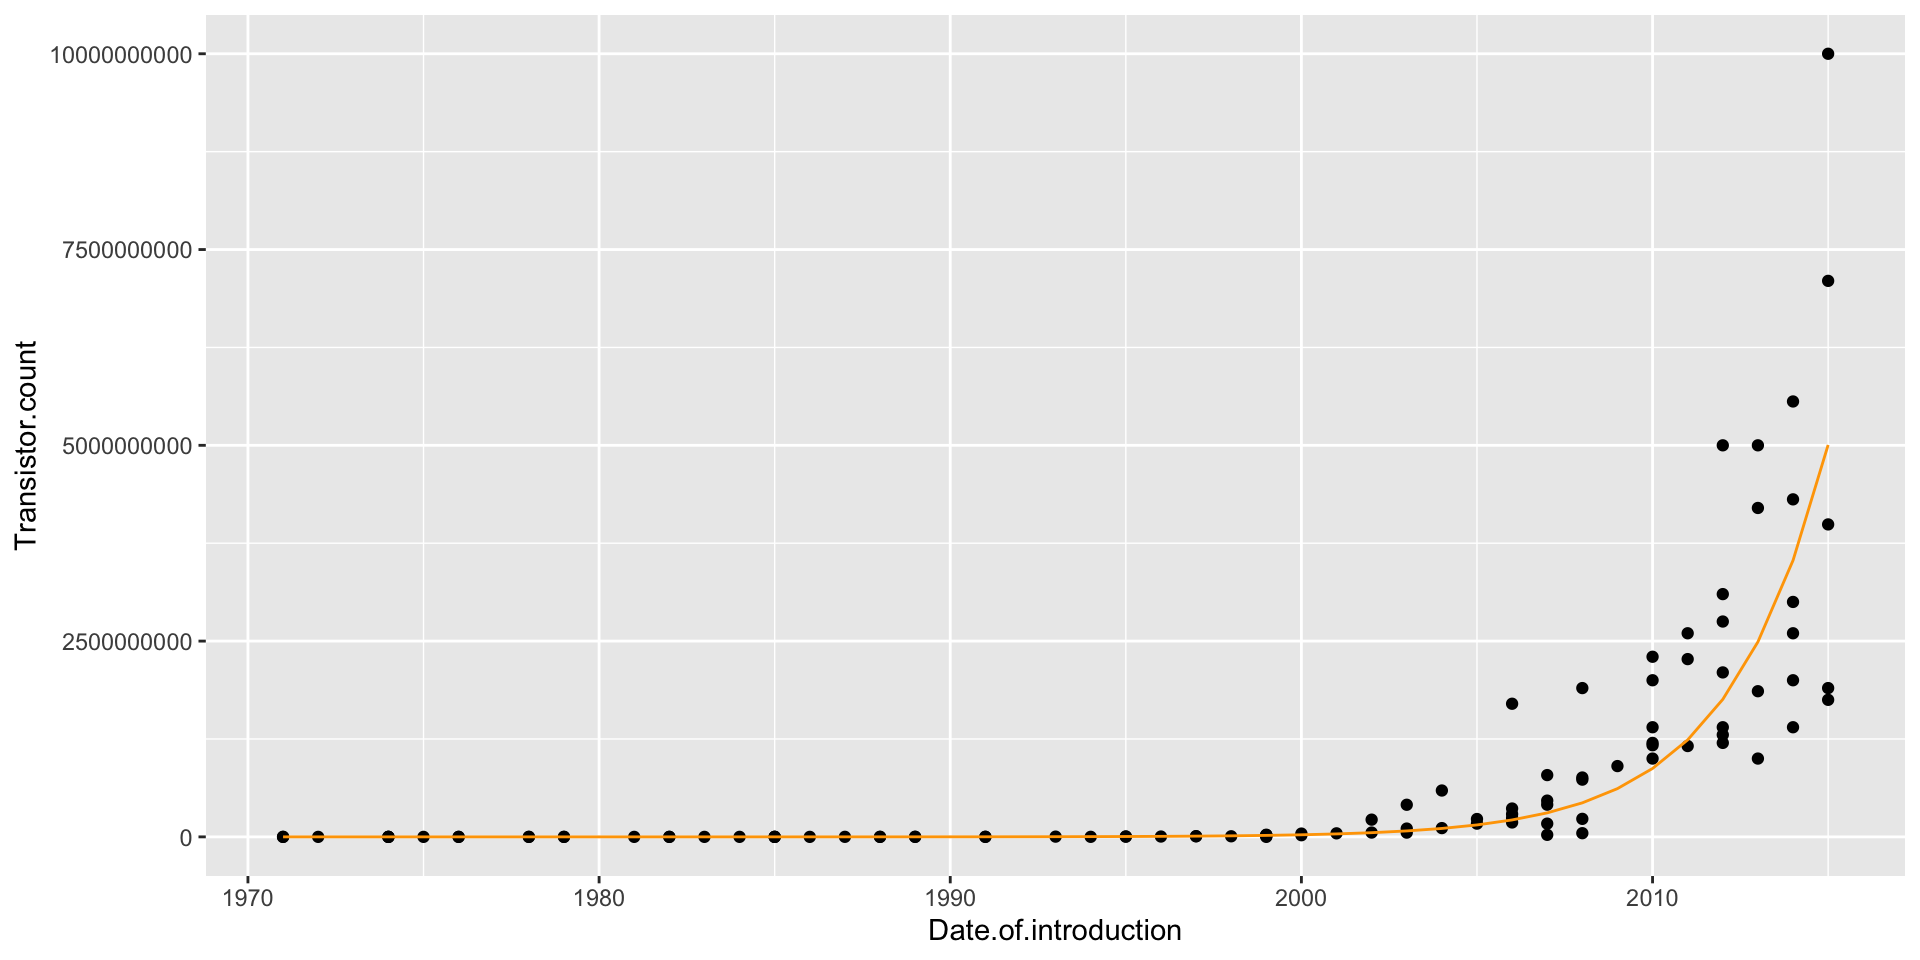
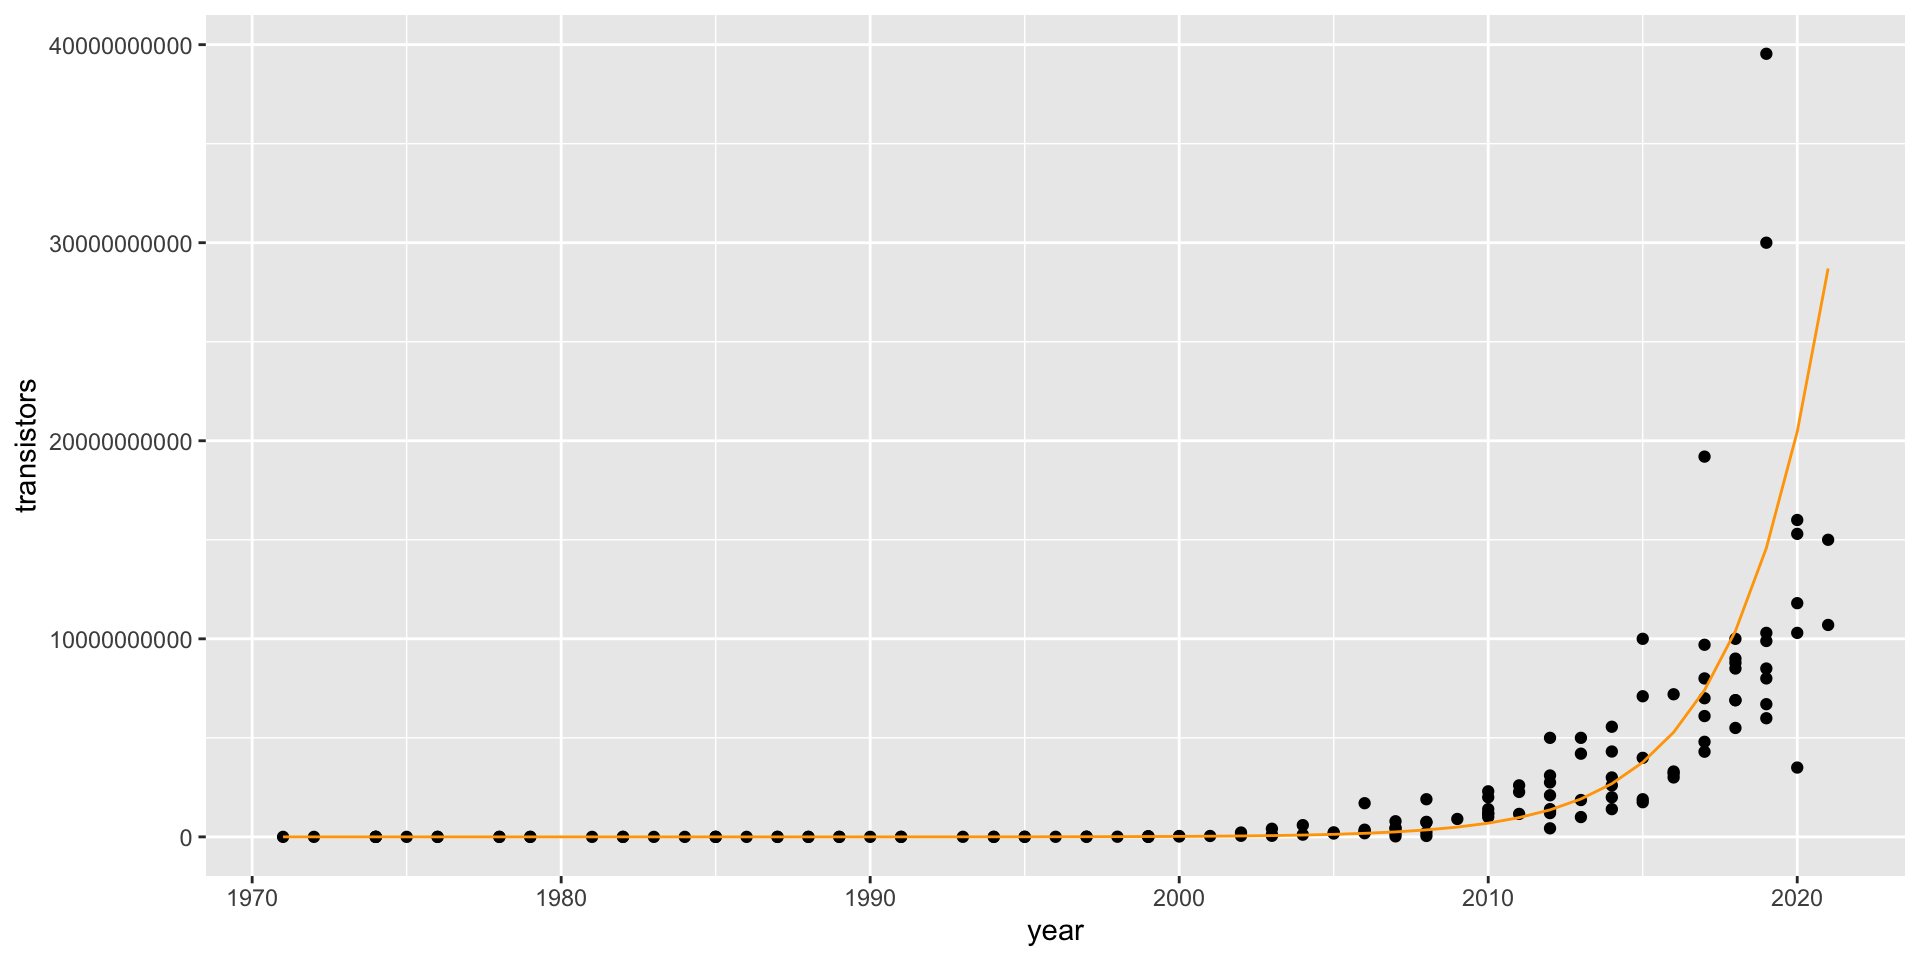
new commit

diff --git a/docs/fa_sta235_2026/class_06_fa_2026.html b/docs/fa_sta235_2026/class_06_fa_2026.html
@@ -452,7 +452,7 @@ I(temp^2)    0.0008440041  0.001651114</code></pre>
 <li>For example, <span class="math inline">\(\log_{10} 1000 = 3\)</span>, <span class="math inline">\(\log_{10}100 = 2\)</span>, and <span class="math inline">\(\log_{10}10 = 1\)</span></li>
 </ul>
 
-<img data-src="week_05_docs/exp_log.png" class="quarto-figure quarto-figure-center r-stretch" style="width:50.0%"></section>
+<img data-src="class_06_docs/exp_log.png" class="quarto-figure quarto-figure-center r-stretch" style="width:50.0%"></section>
 <section id="the-log-transformation-2" class="slide level2 smaller">
 <h2>The log transformation</h2>
 <ul>
@@ -468,7 +468,7 @@ I(temp^2)    0.0008440041  0.001651114</code></pre>
 <li><p>This implies <span style="color:darkorange;">exponential growth</span>, so a linear model won’t fit well (and neither will any polynomial)</p></li>
 </ul>
 <div class="cell" data-layout-align="center">
-<div class="code-copy-outer-scaffold"><div class="sourceCode cell-code" id="cb12"><pre class="sourceCode numberSource r number-lines code-with-copy"><code class="sourceCode r"><span id="cb12-1"><a></a><span class="fu">ggplot</span>(moores, <span class="fu">aes</span>(<span class="at">x =</span> Date.of.introduction, <span class="at">y =</span> Transistor.count)) <span class="sc">+</span></span>
+<div class="code-copy-outer-scaffold"><div class="sourceCode cell-code" id="cb12"><pre class="sourceCode numberSource r number-lines code-with-copy"><code class="sourceCode r"><span id="cb12-1"><a></a><span class="fu">ggplot</span>(moores, <span class="fu">aes</span>(<span class="at">x =</span> year, <span class="at">y =</span> transistors)) <span class="sc">+</span></span>
 <span id="cb12-2"><a></a>  <span class="fu">geom_point</span>() <span class="sc">+</span></span>
 <span id="cb12-3"><a></a>  <span class="fu">geom_smooth</span>(<span class="at">method =</span> <span class="st">"lm"</span>, <span class="at">se =</span> <span class="cn">FALSE</span>)</span></code></pre></div><button title="Copy to Clipboard" class="code-copy-button"><i class="bi"></i></button></div>
 
@@ -477,7 +477,7 @@ I(temp^2)    0.0008440041  0.001651114</code></pre>
 <section id="moores-law-1" class="slide level2 smaller">
 <h2>Moore’s Law</h2>
 <div class="cell" data-layout-align="center">
-<div class="code-copy-outer-scaffold"><div class="sourceCode cell-code" id="cb13"><pre class="sourceCode numberSource r number-lines code-with-copy"><code class="sourceCode r"><span id="cb13-1"><a></a>lm_moore <span class="ot">=</span> <span class="fu">lm</span>(Transistor.count <span class="sc">~</span> Date.of.introduction, <span class="at">data =</span> moores)</span>
+<div class="code-copy-outer-scaffold"><div class="sourceCode cell-code" id="cb13"><pre class="sourceCode numberSource r number-lines code-with-copy"><code class="sourceCode r"><span id="cb13-1"><a></a>lm_moore <span class="ot">=</span> <span class="fu">lm</span>(transistors <span class="sc">~</span> year, <span class="at">data =</span> moores)</span>
 <span id="cb13-2"><a></a><span class="fu">autoplot</span>(lm_moore)</span></code></pre></div><button title="Copy to Clipboard" class="code-copy-button"><i class="bi"></i></button></div>
 
 </div>
@@ -501,7 +501,7 @@ I(temp^2)    0.0008440041  0.001651114</code></pre>
 <li><span class="math inline">\(\log(\texttt{Transistors})\)</span> does have a <span style="color:darkorange;">linear relationship</span> with year</li>
 </ul>
 <div class="cell" data-layout-align="center">
-<div class="code-copy-outer-scaffold"><div class="sourceCode cell-code" id="cb14"><pre class="sourceCode numberSource r number-lines code-with-copy"><code class="sourceCode r"><span id="cb14-1"><a></a><span class="fu">ggplot</span>(moores, <span class="fu">aes</span>(<span class="at">x =</span> Date.of.introduction, <span class="at">y =</span> <span class="fu">log</span>(Transistor.count))) <span class="sc">+</span></span>
+<div class="code-copy-outer-scaffold"><div class="sourceCode cell-code" id="cb14"><pre class="sourceCode numberSource r number-lines code-with-copy"><code class="sourceCode r"><span id="cb14-1"><a></a><span class="fu">ggplot</span>(moores, <span class="fu">aes</span>(<span class="at">x =</span> year, <span class="at">y =</span> <span class="fu">log</span>(transistors))) <span class="sc">+</span></span>
 <span id="cb14-2"><a></a>  <span class="fu">geom_point</span>() <span class="sc">+</span></span>
 <span id="cb14-3"><a></a>  <span class="fu">geom_smooth</span>(<span class="at">method =</span> <span class="st">"lm"</span>, <span class="at">se =</span> <span class="cn">FALSE</span>)</span></code></pre></div><button title="Copy to Clipboard" class="code-copy-button"><i class="bi"></i></button></div>
 
@@ -512,27 +512,27 @@ I(temp^2)    0.0008440041  0.001651114</code></pre>
 <p>Let’s run the regression model</p>
 <div class="cell" data-layout-align="center">
 <div class="code-copy-outer-scaffold"><div class="sourceCode cell-code" id="cb15"><pre class="sourceCode numberSource r number-lines code-with-copy"><code class="sourceCode r"><span id="cb15-1"><a></a><span class="fu">options</span>(<span class="at">scipen =</span> <span class="dv">999</span>)</span>
-<span id="cb15-2"><a></a>lm_moore <span class="ot">=</span> <span class="fu">lm</span>(<span class="fu">log</span>(Transistor.count) <span class="sc">~</span> Date.of.introduction, <span class="at">data =</span> moores)</span>
+<span id="cb15-2"><a></a>lm_moore <span class="ot">=</span> <span class="fu">lm</span>(<span class="fu">log</span>(transistors) <span class="sc">~</span> year, <span class="at">data =</span> moores)</span>
 <span id="cb15-3"><a></a><span class="fu">summary</span>(lm_moore)</span></code></pre></div><button title="Copy to Clipboard" class="code-copy-button"><i class="bi"></i></button></div>
 <div class="cell-output cell-output-stdout">
 <pre><code>
 Call:
-lm(formula = log(Transistor.count) ~ Date.of.introduction, data = moores)
+lm(formula = log(transistors) ~ year, data = moores)
 
 Residuals:
     Min      1Q  Median      3Q     Max 
--5.1299 -0.3338  0.1767  0.5230  2.0626 
+-5.0148 -0.4558  0.0676  0.6039  2.2520 
 
 Coefficients:
-                        Estimate  Std. Error t value            Pr(&gt;|t|)    
-(Intercept)          -681.212056   15.958165  -42.69 &lt;0.0000000000000002 ***
-Date.of.introduction    0.349154    0.007981   43.75 &lt;0.0000000000000002 ***
+               Estimate  Std. Error t value            Pr(&gt;|t|)    
+(Intercept) -660.119283   11.731691  -56.27 &lt;0.0000000000000002 ***
+year           0.338545    0.005854   57.83 &lt;0.0000000000000002 ***
 ---
 Signif. codes:  0 '***' 0.001 '**' 0.01 '*' 0.05 '.' 0.1 ' ' 1
 
-Residual standard error: 1.054 on 99 degrees of freedom
-Multiple R-squared:  0.9508,    Adjusted R-squared:  0.9503 
-F-statistic:  1914 on 1 and 99 DF,  p-value: &lt; 0.00000000000000022</code></pre>
+Residual standard error: 0.9578 on 136 degrees of freedom
+Multiple R-squared:  0.9609,    Adjusted R-squared:  0.9606 
+F-statistic:  3344 on 1 and 136 DF,  p-value: &lt; 0.00000000000000022</code></pre>
 </div>
 </div>
 </section>
@@ -545,11 +545,11 @@ F-statistic:  1914 on 1 and 99 DF,  p-value: &lt; 0.00000000000000022</code></pr
 <img data-src="class_06_fa_2026_files/figure-revealjs/unnamed-chunk-16-1.png" class="quarto-figure quarto-figure-center r-stretch" width="960"></section>
 <section id="interpretation-of-the-model" class="slide level2 smaller">
 <h2>Interpretation of the model</h2>
-<p>Our model is <span class="math display">\[\widehat{\log(\texttt{Transistors})} = −681.21 + 0.35 \cdot \texttt{Year}\]</span></p>
+<p>Our model is <span class="math display">\[\widehat{\log(\texttt{Transistors})} = -660.119283 + 0.338545\times\texttt{Year}\]</span></p>
 <p>Two interpretations of the slope coefficient:</p>
 <ul>
-<li><p>Every year, the <span style="color:darkorange;">predicted log of transistors</span> goes up by 0.35</p></li>
-<li><p>More useful: Every year, the predicted number of transistors goes up by 35%</p></li>
+<li><p>Every year, the <span style="color:darkorange;">predicted log of transistors</span> goes up by 0.34</p></li>
+<li><p>More useful: Every year, the predicted number of transistors goes up by <span class="math inline">\((\exp(0.338545)-1)\times 100 = 40.29049 \%\)</span></p></li>
 <li><p>A <span style="color:darkorange;">constant percentage increase</span> every year is exponential growth!</p></li>
 </ul>
 </section>
@@ -560,16 +560,16 @@ F-statistic:  1914 on 1 and 99 DF,  p-value: &lt; 0.00000000000000022</code></pr
 <li><p>When making predictions, we have to remember that our equation gives us predictions for <span class="math inline">\(\log(\texttt{Transistors})\)</span>, not Transistors!</p></li>
 </ul>
 <p>Example: To make a prediction for the number of transistors in 2022: <span class="math display">\[
-\log(\texttt{Transistors}) = −681.21 + 0.35(2022) = 26.49
+\log(\texttt{Transistors}) = -660.119283 + 0.338545\times (2022) = 24.41871
 \]</span> But our prediction is not 26.49:</p>
-<p><span class="math inline">\(e^{\log(\texttt{Transistors})} = e^{26.49} = 319,492,616,196\)</span></p>
+<p><span class="math inline">\(e^{\log(\texttt{Transistors})} = e^{24.41871} = 40,263,452,155\)</span></p>
 </section>
 <section id="interpretation-of-the-model-2" class="slide level2 smaller">
 <h2>Interpretation of the model</h2>
 <div class="cell" data-layout-align="center">
-<div class="code-copy-outer-scaffold"><div class="sourceCode cell-code" id="cb18"><pre class="sourceCode numberSource r number-lines code-with-copy"><code class="sourceCode r"><span id="cb18-1"><a></a><span class="fu">ggplot</span>(moores, <span class="fu">aes</span>(<span class="at">x =</span> Date.of.introduction, <span class="at">y =</span> Transistor.count)) <span class="sc">+</span></span>
+<div class="code-copy-outer-scaffold"><div class="sourceCode cell-code" id="cb18"><pre class="sourceCode numberSource r number-lines code-with-copy"><code class="sourceCode r"><span id="cb18-1"><a></a><span class="fu">ggplot</span>(moores, <span class="fu">aes</span>(<span class="at">x =</span> year, <span class="at">y =</span> transistors)) <span class="sc">+</span></span>
 <span id="cb18-2"><a></a>  <span class="fu">geom_point</span>() <span class="sc">+</span></span>
-<span id="cb18-3"><a></a>  <span class="fu">geom_line</span>(<span class="fu">aes</span>(<span class="at">x =</span> Date.of.introduction, <span class="at">y =</span> <span class="fu">exp</span>(<span class="fu">predict</span>(lm_moore))), <span class="at">col =</span> <span class="st">"orange"</span>) </span></code></pre></div><button title="Copy to Clipboard" class="code-copy-button"><i class="bi"></i></button></div>
+<span id="cb18-3"><a></a>  <span class="fu">geom_line</span>(<span class="fu">aes</span>(<span class="at">x =</span> year, <span class="at">y =</span> <span class="fu">exp</span>(<span class="fu">predict</span>(lm_moore))), <span class="at">col =</span> <span class="st">"orange"</span>) </span></code></pre></div><button title="Copy to Clipboard" class="code-copy-button"><i class="bi"></i></button></div>
 
 </div>
 <img data-src="class_06_fa_2026_files/figure-revealjs/unnamed-chunk-17-1.png" class="quarto-figure quarto-figure-center r-stretch" width="960"></section>
@@ -577,8 +577,8 @@ F-statistic:  1914 on 1 and 99 DF,  p-value: &lt; 0.00000000000000022</code></pr
 <h2>Interpretation of the model</h2>
 <table class="caption-top">
 <colgroup>
-<col style="width: 25%">
-<col style="width: 25%">
+<col style="width: 24%">
+<col style="width: 24%">
 <col style="width: 50%">
 </colgroup>
 <thead>
@@ -597,7 +597,7 @@ F-statistic:  1914 on 1 and 99 DF,  p-value: &lt; 0.00000000000000022</code></pr
 <tr class="even">
 <td style="text-align: left;">Log-linear</td>
 <td style="text-align: left;"><span class="math inline">\(\log(\widehat{Y}) = \widehat{\beta}_0 + \widehat{\beta}_1 X\)</span></td>
-<td style="text-align: left;">1 unit increase in <span class="math inline">\(X\)</span> implies ≈ <span class="math inline">\(100 \cdot \widehat{\beta}_1 \%\)</span> increase in <span class="math inline">\(\widehat{Y}\)</span></td>
+<td style="text-align: left;">1 unit increase in <span class="math inline">\(X\)</span> implies that <span class="math inline">\((\exp( \widehat{\beta}_1)-1)\times 100\%\)</span> increase in <span class="math inline">\(\widehat{Y}\)</span></td>
 </tr>
 <tr class="odd">
 <td style="text-align: left;">Linear-log</td>
